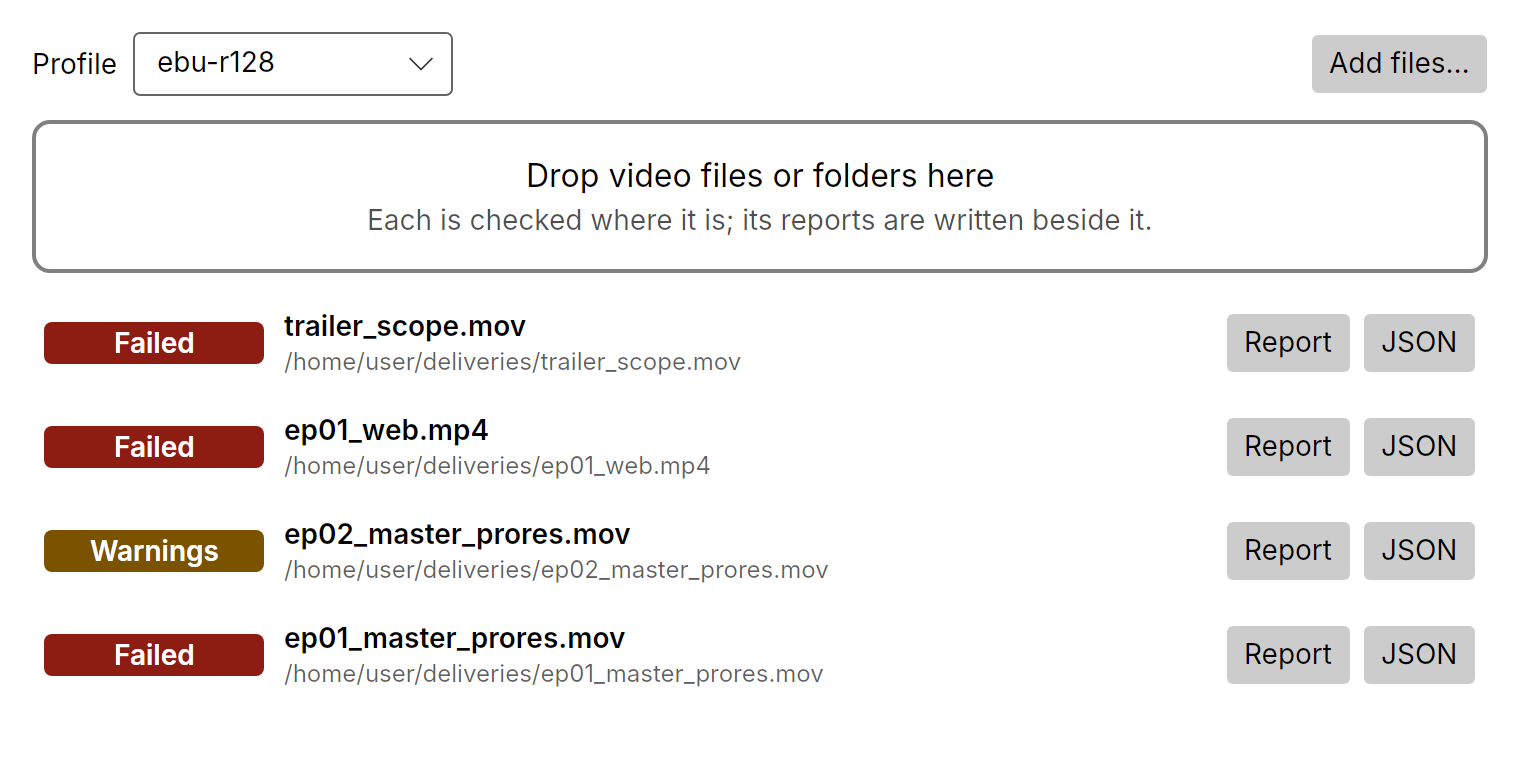
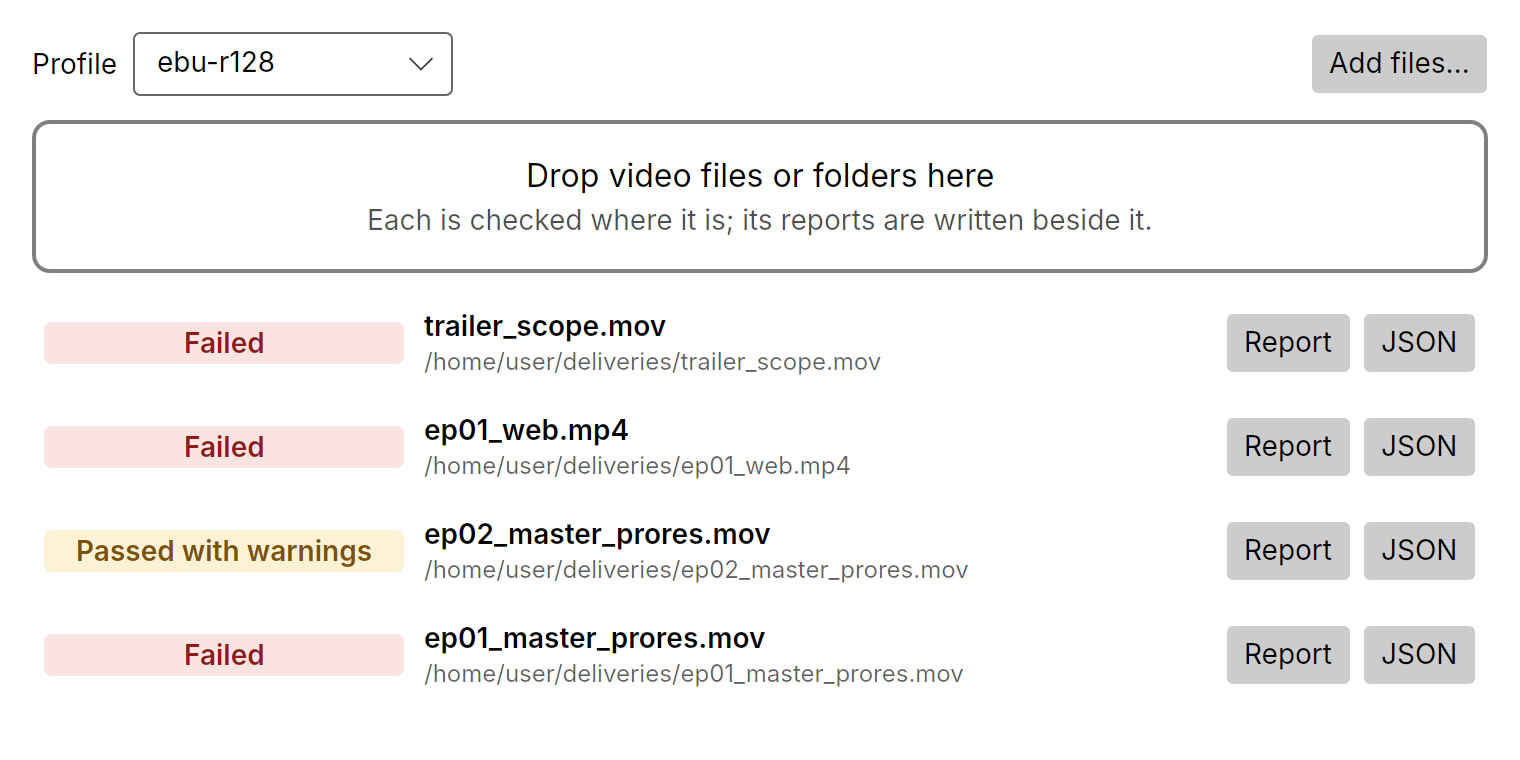
Status style: decision, backlog, CLAUDE.md, README screenshots
The README's web UI and app screenshots and its CLI example show the new labels.

Claude-Session: https://claude.ai/code/session_015S5PSMNnZM1TYzSRVFoa1F

diff --git a/docs/example/programme_prores.mov.qc.html b/docs/example/programme_prores.mov.qc.html
@@ -6,13 +6,9 @@
 <title>QC: programme_prores.mov</title>
 <style>
 :root { color-scheme: light dark;
-  --fg: #1b1b1b; --muted: #5a5a5a; --line: #ddd; --bg: #fff; --head: #f6f6f4; --link: #1f5d99;
-  --pass-bg: #e3f4e6; --pass: #17602a; --info-bg: #e8eef7; --info: #24466e;
-  --warning-bg: #fdf1d6; --warning: #7a5200; --failure-bg: #fbe3e1; --failure: #8d1c12; }
+  --fg: #1b1b1b; --muted: #5a5a5a; --line: #ddd; --bg: #fff; --head: #f6f6f4; --link: #1f5d99; }
 @media screen and (prefers-color-scheme: dark) { :root {
-  --fg: #e6e6e3; --muted: #a6a6a1; --line: #3a3a38; --bg: #161615; --head: #1f1f1e; --link: #8cbcf0;
-  --pass-bg: #173a22; --pass: #9fdcae; --info-bg: #1c2b40; --info: #a9c4e8;
-  --warning-bg: #3d2f0c; --warning: #f2cf7c; --failure-bg: #4a1a16; --failure: #f6aaa2; } }
+  --fg: #e6e6e3; --muted: #a6a6a1; --line: #3a3a38; --bg: #161615; --head: #1f1f1e; --link: #8cbcf0; } }
 * { box-sizing: border-box; }
 body { font: 15px/1.45 system-ui, sans-serif; margin: 2rem auto; max-width: 72rem; padding: 0 1rem; color: var(--fg); background: var(--bg); }
 h1 { font-size: 1.4rem; margin: 0 0 .2rem; overflow-wrap: anywhere; }
@@ -29,10 +25,6 @@ th { font-size: .8rem; text-transform: uppercase; letter-spacing: .04em; color: 
 td.tc { font-family: ui-monospace, monospace; font-size: .9rem; font-variant-numeric: tabular-nums; white-space: nowrap; }
 .against { display: block; color: var(--muted); font-size: .8rem; margin-top: .15rem; }
 .against a { white-space: nowrap; }
-.pass { background: var(--pass-bg); color: var(--pass); }
-.info { background: var(--info-bg); color: var(--info); }
-.warning { background: var(--warning-bg); color: var(--warning); }
-.failure { background: var(--failure-bg); color: var(--failure); }
 span.sev { display: inline-block; padding: .1rem .45rem; border-radius: .25rem; font-size: .8rem; font-weight: 600; }
 details { margin-top: 2rem; }
 summary { cursor: pointer; font-weight: 600; }
@@ -56,6 +48,15 @@ summary .against { display: inline; margin-left: .4rem; font-weight: normal; }
   thead { display: table-header-group; }
   .verdict, span.sev { -webkit-print-color-adjust: exact; print-color-adjust: exact; }
 }
+:root { --pass-bg: #e3f4e6; --pass: #17602a; --info-bg: #e8eef7; --info: #24466e; --warning-bg: #fdf1d6; --warning: #7a5200; --failure-bg: #fbe3e1; --failure: #8d1c12; --neutral-bg: #ececea; --neutral: #4a4a48; }
+@media screen and (prefers-color-scheme: dark) {
+:root { --pass-bg: #173a22; --pass: #9fdcae; --info-bg: #1c2b40; --info: #a9c4e8; --warning-bg: #3d2f0c; --warning: #f2cf7c; --failure-bg: #4a1a16; --failure: #f6aaa2; --neutral-bg: #2e2e2c; --neutral: #cfcfca; }
+}
+.pass { background: var(--pass-bg); color: var(--pass); }
+.info { background: var(--info-bg); color: var(--info); }
+.warning { background: var(--warning-bg); color: var(--warning); }
+.failure { background: var(--failure-bg); color: var(--failure); }
+.neutral { background: var(--neutral-bg); color: var(--neutral); }
 </style>
 </head>
 <body>

diff --git a/docs/decisions/2026-11-04-status-style.md b/docs/decisions/2026-11-04-status-style.md
@@ -1,0 +1,28 @@
+# One status style for the report, the web UI and the app
+
+Asked 2026-11-04, after the report's new layout was merged (decisions/2026-11-04-report-layout.md): which of the UI
+review's backlog items next.
+
+- **One status style** (recommended): one set of status colours and labels, light and dark, in Noga.Core, used by
+  the report, the web UI and the app, so they look like one product; it also fixes the app's dark-mode badges, which
+  were below WCAG AA
+- Job rows that explain themselves in the web UI and the app
+- Stop here
+
+**Answer: one status style.**
+
+## What was built
+
+- `StatusStyle` (Noga.Core): a file's `Status` (queued, measuring, passed, passed with warnings, failed, couldn't
+  read) with one label each, used everywhere: "Passed with warnings" (it was "Warnings" in the web UI and the app),
+  and the command line's first line says "Failed" or "Passed" rather than the verdict's severity ("Failure", or
+  "Info" for a file that passed). The JSON report's `verdict` and the exit codes are unchanged.
+- Five tones (pass, info, warning, failure, neutral), each a tinted background with coloured text, light and dark;
+  "Couldn't read" is neutral, as it has no verdict. `StatusStyle.Css` gives a page each tone's custom properties
+  (dark ones on screen with a dark system theme) and a class per tone; a test checks every tone's text against its
+  tint is at least 4.5:1 (WCAG AA), light and dark.
+- The report takes its badge colours from it; the web UI too, with the page itself now following the system's dark
+  theme, its badges in one aligned column (stacked on a phone), and each job's `status` in its JSON; the app draws
+  tinted badges in the colours of its theme (light or dark, redrawn when it changes), its error text the failure
+  tone's.
+- The README's screenshots of the web UI and the app are redone.

diff --git a/docs/backlog.md b/docs/backlog.md
@@ -18,14 +18,6 @@ Status: **Open**, **In progress**, **Waiting**, **Maybe**; finished (in backlog-
     10 minutes (ProRes HQ about 17 s a minute on 4 cores, flat memory), and the worst found is fixed (memory that grew
     with a QuickTime PCM file's length, 1.9 GB for 10 minutes). Still to do: the open films, and the figure in the README
 
-- One status style for the report, the web UI and the app
-  - Why: the 2026-11-04 UI/UX review (decisions/2026-11-04-report-layout.md): tinted badges in the report and the web
-    UI, solid ones in the app; dark mode only in the app and now the report; "Failure", "Failed" and "Warnings" by
-    surface, and the CLI prints "Info" as a passing file's verdict; the app's dark-mode error text and Failed badge
-    are below WCAG AA. One set of colours and labels (light and dark) in Noga.Core, used by all three, and a neutral
-    style for "Couldn't read"
-  - Status: Open
-
 - Job rows that explain themselves, in the web UI and the app
   - Why: the same review: a row says "Failed" without why, repeats the full path, and a read error repeats it twice;
     the web UI's badges don't line up and only it shows the elapsed time. A one-line reason (the first failure or
@@ -35,7 +27,7 @@ Status: **Open**, **In progress**, **Waiting**, **Maybe**; finished (in backlog-
 - The web UI's usability gaps
   - Why: the same review: folders and ".." aren't keyboard-reachable (spans), a bad path leaves the old listing under
     it, Check gives no feedback and queues duplicates, non-media files get a Check button, no "check all in this
-    folder", no dark mode, grey text #777 just under AA
+    folder" (its dark mode and its grey text's contrast came with decisions/2026-11-04-status-style.md)
   - Status: Open
 
 - Raw values in findings

diff --git a/CLAUDE.md b/CLAUDE.md
@@ -89,7 +89,7 @@ What is next, in order: docs/backlog.md.
   track, duration; reported always) and `FormatSpec` (a profile's `Format`: what the delivery asks for, each value a
   pass or a failure; decisions/2026-11-03-delivery-format.md), `QcReport`/`Finding` (severity, message, value, positions, what it is checked
   against, its EBU QC item: `EbuQcItem.For`, decisions/2026-11-01-ebu-qc-items.md; `ExitCode`), `Timecode` (SMPTE from the file's start timecode, drop-frame at 29.97/59.94), `ReportJson`
-  (the JSON report, source-generated), `ReportHtml` (the HTML report, one self-contained page: the verdict with counts, the failures and warnings first, the format in the header, the shots folded; phone, dark and print: decisions/2026-11-04-report-layout.md), `Product` (name and
+  (the JSON report, source-generated), `ReportHtml` (the HTML report, one self-contained page: the verdict with counts, the failures and warnings first, the format in the header, the shots folded; phone, dark and print: decisions/2026-11-04-report-layout.md), `StatusStyle` (a file's `Status` and each severity: one label and one tinted colour, light and dark, for the report, `noga serve`'s page, the app and the command line; each at least WCAG AA: decisions/2026-11-04-status-style.md), `Product` (name and
   version). `Measurements.NotMeasured` lists the checks a decoder path doesn't measure yet, which the report says.
   `TimecodeTag.Pick`: the start timecode in ffprobe's JSON. `AudioTrack.All`: every audio track (ffmpeg's 0:a:N);
   each is measured (`Measurements.OtherTracks`, `TrackMeasures`) and judged, its findings naming it (`Finding.Track`). `LineUp.End`: where the line-up tone ends; loudness is measured from there (`Measurements.LoudnessFrom`).

diff --git a/docs/backlog-done.md b/docs/backlog-done.md
@@ -188,3 +188,11 @@ Finished items from [backlog.md](backlog.md), oldest first.
   - Status: Done (2026-11-04: 48 odd files checked, decisions/2026-11-04-odd-files.md: the crashes and the queue
     fixed, damaged MP4s to the FFmpeg path, `OddFileTests` on 30 of them; the `decode` check fails a picture or sound
     that ends early, or frames that don't decode; sound-only files are checked for their sound)
+
+- One status style for the report, the web UI and the app
+  - Why: the 2026-11-04 UI/UX review (decisions/2026-11-04-report-layout.md): tinted badges in the report and the web
+    UI, solid ones in the app; dark mode only in the app and now the report; "Failure", "Failed" and "Warnings" by
+    surface, and the CLI prints "Info" as a passing file's verdict; the app's dark-mode error text and Failed badge
+    are below WCAG AA. One set of colours and labels (light and dark) in Noga.Core, used by all three, and a neutral
+    style for "Couldn't read"
+  - Status: Done (2026-11-04: `StatusStyle`, decisions/2026-11-04-status-style.md)

diff --git a/README.md b/README.md
@@ -70,7 +70,7 @@ This writes `episode01.mov.qc.html` and `episode01.mov.qc.json` next to the file
 the findings:
 
 ```
-programme_prores.mov: Failure (profile ebu-r128, exit code 1)
+programme_prores.mov: Failed (profile ebu-r128, exit code 1)
   Pass     tone: Line-up tone, 1000 Hz at -18.0 dBFS (expected -18 dBFS within 0.5 dB), for 5.00 s [10:00:00:00-10:00:05:00]
   Warning  black: Black for 3.00 s mid-programme [10:00:05:00-10:00:08:00]
   ...
